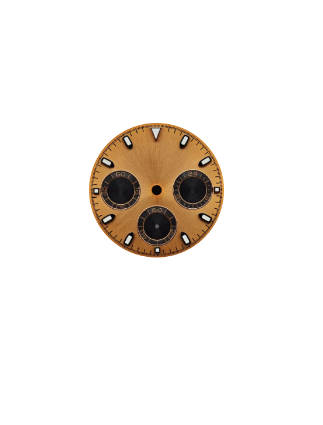
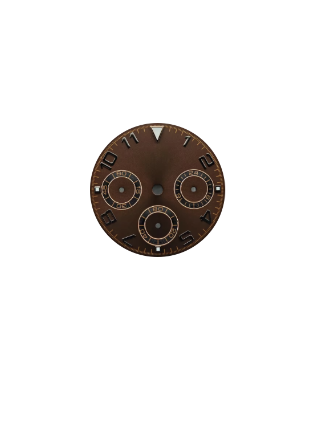
Daytona - page assembling day #1 - finished

Changed region(s): [[0.2786, 0.2753, 0.7121, 0.6118]]

diff --git a/consSportDaytona.html b/consSportDaytona.html
@@ -1,5 +1,8 @@
 <!DOCTYPE html>
 <html lang="en">
+<!--
+hands
+-->
 
 <head>
     <meta charset="UTF-8" />
@@ -7,7 +10,7 @@
     <title>Daytona</title>
     <link rel="stylesheet" href="styleHeaderFooter.css" />
     <link rel="stylesheet" href="styleConstructorSport.css" />
-    <link rel="stylesheet" href="styleConsSportSpeedmaster.css" />
+    <link rel="stylesheet" href="styleConsSportDaytona.css" />
     <script src="https://cdn.jsdelivr.net/npm/html2canvas@1.4.1/dist/html2canvas.min.js"></script>
 
 </head>
@@ -26,10 +29,10 @@
         <div class="constructor-container">
             <div class="watch-preview-box" id="watchPreviewBox">
                 <div class="watch-preview">
-                    <img id="caseLayer" class="layer" src="watchParts/7_Speedmaster/case/case_1.png" />
-                    <img id="bandLayer" class="layer" src="watchParts/7_Speedmaster/bezel/bezel_1.png" />
-                    <img id="dialLayer" class="layer" src="watchParts/7_Speedmaster/dial/dial_1.png" />
-                    <img id="handsLayer" class="layer" src="watchParts/7_Speedmaster/hands/hands_1.png" />
+                    <img id="caseLayer" class="layer" src="watchParts/8_Daytona/case/case_1.png" />
+                    <img id="bezelLayer" class="layer" src="watchParts/8_Daytona/bezel/bezel_1.png" />
+                    <img id="dialLayer" class="layer" src="watchParts/8_Daytona/dial/dial_1.png" />
+                    <img id="handsLayer" class="layer" src="watchParts/8_Daytona/hands/hands_1.png" />
                     <div class="corner-text left" id="engraveText"
                         data-i18n="pageConstructorsWatchView.watchMenu.noIngrave">Без гравировки</div>
                     <div class="corner-text left2" id="logoText" data-i18n="pageConstructorsWatchView.watchMenu.noLogo">
@@ -51,22 +54,22 @@
 
                     <div class="option-images" id="caseOptions" style="display: none;">
                         <button class="option" data-value="1">
-                            <img src="watchParts/7_Speedmaster/case/case_1.png" alt="Case 1" />
+                            <img src="watchParts/8_Daytona/case/case_1.png" alt="Case 1" />
                         </button>
                         <button class="option" data-value="2">
-                            <img src="watchParts/7_Speedmaster/case/case_2.png" alt="Case 2" />
+                            <img src="watchParts/8_Daytona/case/case_2.png" alt="Case 2" />
                         </button>
                         <button class="option" data-value="3">
-                            <img src="watchParts/7_Speedmaster/case/case_3.png" alt="Case 3" />
+                            <img src="watchParts/8_Daytona/case/case_3.png" alt="Case 3" />
                         </button>
                         <button class="option" data-value="4">
-                            <img src="watchParts/7_Speedmaster/case/case_4.png" alt="Case 4" />
+                            <img src="watchParts/8_Daytona/case/case_4.png" alt="Case 4" />
                         </button>
                         <button class="option" data-value="5">
-                            <img src="watchParts/7_Speedmaster/case/case_5.png" alt="Case 5" />
+                            <img src="watchParts/8_Daytona/case/case_5.png" alt="Case 5" />
                         </button>
                         <button class="option" data-value="6">
-                            <img src="watchParts/7_Speedmaster/case/case_6.png" alt="Case 6" />
+                            <img src="watchParts/8_Daytona/case/case_6.png" alt="Case 6" />
                         </button>
                     </div>
                 </div>
@@ -74,29 +77,29 @@
                 <hr class="option-divider">
 
                 <div class="option-group">
-                    <div class="option-header" id="bandToggle">
+                    <div class="option-header" id="bezelToggle">
                         <span data-i18n="pageConstructorsWatchView.watchMenu.bezel">Безель</span>
                         <span class="arrow-icon"></span>
                     </div>
 
-                    <div class="option-images" id="bandOptions" style="display: none;">
+                    <div class="option-images" id="bezelOptions" style="display: none;">
                         <button class="option" data-value="1">
-                            <img src="watchParts/7_Speedmaster/bezel/bezel_1.png" alt="Band 1" />
+                            <img src="watchParts/8_Daytona/bezel/bezel_1.png" alt="bezel 1" />
                         </button>
                         <button class="option" data-value="2">
-                            <img src="watchParts/7_Speedmaster/bezel/bezeld_2.png" alt="Band 2" />
+                            <img src="watchParts/8_Daytona/bezel/bezel_2.png" alt="Bezel 2" />
                         </button>
                         <button class="option" data-value="3">
-                            <img src="watchParts/7_Speedmaster/bezel/bezel_3.png" alt="Band 3" />
+                            <img src="watchParts/8_Daytona/bezel/bezel_3.png" alt="Bezel 3" />
                         </button>
                         <button class="option" data-value="4">
-                            <img src="watchParts/7_Speedmaster/bezel/bezel_4.png" alt="Band 4" />
+                            <img src="watchParts/8_Daytona/bezel/bezel_4.png" alt="Bezel 4" />
                         </button>
                         <button class="option" data-value="5">
-                            <img src="watchParts/7_Speedmaster/bezel/bezel_5.png" alt="Band 5" />
+                            <img src="watchParts/8_Daytona/bezel/bezel_5.png" alt="Bezel 5" />
                         </button>
                         <button class="option" data-value="6">
-                            <img src="watchParts/7_Speedmaster/bezel/bezel_6.png" alt="Band 6" />
+                            <img src="watchParts/8_Daytona/bezel/bezel_6.png" alt="Bezel 6" />
                         </button>
                     </div>
                 </div>
@@ -111,82 +114,88 @@
 
                     <div class="option-images" id="dialOptions" style="display: none;">
                         <button class="option" data-value="1">
-                            <img src="watchParts/7_Speedmaster/dial/dial_1.png" alt="Dial 1" />
+                            <img src="watchParts/8_Daytona/dial/dial_1.png" alt="Dial 1" />
                         </button>
                         <button class="option" data-value="2">
-                            <img src="watchParts/7_Speedmaster/dial/dial_2.png" alt="Dial 2" />
+                            <img src="watchParts/8_Daytona/dial/dial_2.png" alt="Dial 2" />
                         </button>
                         <button class="option" data-value="3">
-                            <img src="watchParts/7_Speedmaster/dial/dial_3.png" alt="Dial 3" />
+                            <img src="watchParts/8_Daytona/dial/dial_3.png" alt="Dial 3" />
                         </button>
                         <button class="option" data-value="4">
-                            <img src="watchParts/7_Speedmaster/dial/dial_4.png" alt="Dial 4" />
+                            <img src="watchParts/8_Daytona/dial/dial_4.png" alt="Dial 4" />
                         </button>
                         <button class="option" data-value="5">
-                            <img src="watchParts/7_Speedmaster/dial/dial_5.png" alt="Dial 5" />
+                            <img src="watchParts/8_Daytona/dial/dial_5.png" alt="Dial 5" />
                         </button>
                         <button class="option" data-value="6">
-                            <img src="watchParts/7_Speedmaster/dial/dial_6.png" alt="Dial 6" />
+                            <img src="watchParts/8_Daytona/dial/dial_6.png" alt="Dial 6" />
                         </button>
                         <button class="option" data-value="7">
-                            <img src="watchParts/7_Speedmaster/dial/dial_7.png" alt="Dial 7" />
+                            <img src="watchParts/8_Daytona/dial/dial_7.png" alt="Dial 7" />
                         </button>
                         <button class="option" data-value="8">
-                            <img src="watchParts/7_Speedmaster/dial/dial_8.png" alt="Dial 8" />
+                            <img src="watchParts/8_Daytona/dial/dial_8.png" alt="Dial 8" />
                         </button>
                         <button class="option" data-value="9">
-                            <img src="watchParts/7_Speedmaster/dial/dial_9.png" alt="Dial 9" />
+                            <img src="watchParts/8_Daytona/dial/dial_9.png" alt="Dial 9" />
                         </button>
                         <button class="option" data-value="10">
-                            <img src="watchParts/7_Speedmaster/dial/dial_10.png" alt="Dial 10" />
+                            <img src="watchParts/8_Daytona/dial/dial_10.png" alt="Dial 10" />
                         </button>
                         <button class="option" data-value="11">
-                            <img src="watchParts/7_Speedmaster/dial/dial_11.png" alt="Dial 11" />
+                            <img src="watchParts/8_Daytona/dial/dial_11.png" alt="Dial 11" />
                         </button>
                         <button class="option" data-value="12">
-                            <img src="watchParts/7_Speedmaster/dial/dial_12.png" alt="Dial 12" />
+                            <img src="watchParts/8_Daytona/dial/dial_12.png" alt="Dial 12" />
                         </button>
                         <button class="option" data-value="13">
-                            <img src="watchParts/7_Speedmaster/dial/dial_13.png" alt="Dial 13" />
+                            <img src="watchParts/8_Daytona/dial/dial_13.png" alt="Dial 13" />
                         </button>
                         <button class="option" data-value="14">
-                            <img src="watchParts/7_Speedmaster/dial/dial_14.png" alt="Dial 14" />
+                            <img src="watchParts/8_Daytona/dial/dial_14.png" alt="Dial 14" />
                         </button>
                         <button class="option" data-value="15">
-                            <img src="watchParts/7_Speedmaster/dial/dial_15.png" alt="Dial 15" />
+                            <img src="watchParts/8_Daytona/dial/dial_15.png" alt="Dial 15" />
                         </button>
                         <button class="option" data-value="16">
-                            <img src="watchParts/7_Speedmaster/dial/dial_16.png" alt="Dial 16" />
+                            <img src="watchParts/8_Daytona/dial/dial_16.png" alt="Dial 16" />
                         </button>
                         <button class="option" data-value="17">
-                            <img src="watchParts/7_Speedmaster/dial/dial_17.png" alt="Dial 17" />
+                            <img src="watchParts/8_Daytona/dial/dial_17.png" alt="Dial 17" />
                         </button>
                         <button class="option" data-value="18">
-                            <img src="watchParts/7_Speedmaster/dial/dial_18.png" alt="Dial 18" />
+                            <img src="watchParts/8_Daytona/dial/dial_18.png" alt="Dial 18" />
                         </button>
                         <button class="option" data-value="9">
-                            <img src="watchParts/7_Speedmaster/dial/dial_19.png" alt="Dial 19" />
+                            <img src="watchParts/8_Daytona/dial/dial_19.png" alt="Dial 19" />
                         </button>
                         <button class="option" data-value="20">
-                            <img src="watchParts/7_Speedmaster/dial/dial_20.png" alt="Dial 20" />
+                            <img src="watchParts/8_Daytona/dial/dial_20.png" alt="Dial 20" />
                         </button>
                         <button class="option" data-value="21">
-                            <img src="watchParts/7_Speedmaster/dial/dial_21.png" alt="Dial 21" />
+                            <img src="watchParts/8_Daytona/dial/dial_21.png" alt="Dial 21" />
                         </button>
                         <button class="option" data-value="22">
-                            <img src="watchParts/7_Speedmaster/dial/dial_22.png" alt="Dial 22" />
+                            <img src="watchParts/8_Daytona/dial/dial_22.png" alt="Dial 22" />
                         </button>
                         <button class="option" data-value="23">
-                            <img src="watchParts/7_Speedmaster/dial/dial_23.png" alt="Dial 23" />
+                            <img src="watchParts/8_Daytona/dial/dial_23.png" alt="Dial 23" />
                         </button>
                         <button class="option" data-value="24">
-                            <img src="watchParts/7_Speedmaster/dial/dial_24.png" alt="Dial 24" />
+                            <img src="watchParts/8_Daytona/dial/dial_24.png" alt="Dial 24" />
                         </button>
                         <button class="option" data-value="25">
-                            <img src="watchParts/7_Speedmaster/dial/dial_25.png" alt="Dial 25" />
+                            <img src="watchParts/8_Daytona/dial/dial_25.png" alt="Dial 25" />
                         </button>
                         <button class="option" data-value="26">
-                            <img src="watchParts/7_Speedmaster/dial/dial_26.png" alt="Dial 26" />
+                            <img src="watchParts/8_Daytona/dial/dial_26.png" alt="Dial 26" />
+                        </button>
+                        <button class="option" data-value="27">
+                            <img src="watchParts/8_Daytona/dial/dial_27.png" alt="Dial 27" />
+                        </button>
+                        <button class="option" data-value="28">
+                            <img src="watchParts/8_Daytona/dial/dial_28.png" alt="Dial 28" />
                         </button>
                     </div>
                 </div>
@@ -201,19 +210,19 @@
 
                     <div class="option-images" id="handsOptions" style="display: none;">
                         <button class="option" data-value="1">
-                            <img src="watchParts/7_Speedmaster/hands/hands_1.png" alt="Hands 1" />
+                            <img src="watchParts/8_Daytona/hands/hands_1.png" alt="Hands 1" />
                         </button>
                         <button class="option" data-value="2">
-                            <img src="watchParts/7_Speedmaster/hands/hands_2.png" alt="Hands 2" />
+                            <img src="watchParts/8_Daytona/hands/hands_2.png" alt="Hands 2" />
                         </button>
                         <button class="option" data-value="3">
-                            <img src="watchParts/7_Speedmaster/hands/handsl_3.png" alt="Hands 3" />
+                            <img src="watchParts/8_Daytona/hands/hands_3.png" alt="Hands 3" />
                         </button>
                         <button class="option" data-value="4">
-                            <img src="watchParts/7_Speedmaster/hands/hands_4.png" alt="Hands 4" />
+                            <img src="watchParts/8_Daytona/hands/hands_4.png" alt="Hands 4" />
                         </button>
                         <button class="option" data-value="5">
-                            <img src="watchParts/7_Speedmaster/hands/handsl_5.png" alt="Hands 5" />
+                            <img src="watchParts/8_Daytona/hands/hands_5.png" alt="Hands 5" />
                         </button>
 
                     </div>
@@ -298,7 +307,7 @@
     <div id="footer"></div>
 
     <script src="header-footer-loader.js"></script>
-    <script src="scriptConsSportSpeedmaster.js"></script>
+    <script src="scriptConsSportDaytona.js"></script>
     <script src="localization.js"></script>
 </body>
 

diff --git a/scriptConsSportDaytona.js b/scriptConsSportDaytona.js
@@ -21,21 +21,24 @@ document.addEventListener("DOMContentLoaded", function () {
 
     const dialLayer = document.getElementById("dialLayer");
     const caseLayer = document.getElementById("caseLayer");
-    const bandLayer = document.getElementById("bandLayer");
+    const bezelLayer = document.getElementById("bezelLayer");
+    const handsLayer = document.getElementById("handsLayer");
 
     function updateLayer(layer, path, name, ext = "png") {
-        layer.src = `watchParts/7_Speedmaster/${path}/${name}.${ext}`;
+        layer.src = `watchParts/8_Daytona/${path}/${name}.${ext}`;
     }
 
     function saveToLocal() {
         const dialButton = document.querySelector("#dialOptions button.selected");
         const caseButton = document.querySelector("#caseOptions button.selected");
-        const bandButton = document.querySelector("#bandOptions button.selected");
+        const bezelButton = document.querySelector("#bezelOptions button.selected");
+        const handsButton = document.querySelector("#handsOptions button.selected");
 
         const config = {
             dial: dialButton?.dataset.value || "1",
             case: caseButton?.dataset.value || "1",
-            band: bandButton?.dataset.value || "1",
+            bezel: bezelButton?.dataset.value || "1",
+            hands: handsButton?.dataset.value || "1"
         };
 
         localStorage.setItem(storageKey, JSON.stringify(config));
@@ -51,16 +54,21 @@ document.addEventListener("DOMContentLoaded", function () {
         const caseValue = caseBtn ? caseBtn.dataset.value : "1";
         updateLayer(caseLayer, "case", `case_${caseValue}`);
 
-        const bandBtn = document.querySelector("#bandOptions button.selected");
-        const bandValue = bandBtn ? bandBtn.dataset.value : "1";
-        updateLayer(bandLayer, "band", `band_${bandValue}`);
+        const bezeldBtn = document.querySelector("#bezelOptions button.selected");
+        const bezelValue = bezelBtn ? bezelBtn.dataset.value : "1";
+        updateLayer(bezelLayer, "bezel", `bezel_${bezelValue}`);
+
+        const handsBtn = document.querySelector("#handsOptions button.selected");
+        const handsValue = handsBtn ? handsBtn.dataset.value : "1";
+        updateLayer(handsLayer, "hands", `hands_${handsValue}`);
     }
 
     function loadFromLocalOrURL() {
         const config = JSON.parse(localStorage.getItem(storageKey)) || {
             dial: "1",
             case: "1",
-            band: "1"
+            bezel: "1",
+            hands: "1"
         };
 
 
@@ -70,8 +78,12 @@ document.addEventListener("DOMContentLoaded", function () {
         const caseButtons = document.querySelectorAll("#caseOptions button");
         caseButtons.forEach(b => b.classList.toggle("selected", b.dataset.value === config.case));
 
-        const bandButtons = document.querySelectorAll("#bandOptions button");
-        bandButtons.forEach(b => b.classList.toggle("selected", b.dataset.value === config.band));
+        const bezelButtons = document.querySelectorAll("#bezelOptions button");
+        bezelButtons.forEach(b => b.classList.toggle("selected", b.dataset.value === config.bezel));
+
+        const handsButtons = document.querySelectorAll("#handsOptions button");
+        handsButtons.forEach(b => b.classList.toggle("selected", b.dataset.value === config.hands));
+
 
         applySelections();
     }
@@ -79,7 +91,8 @@ document.addEventListener("DOMContentLoaded", function () {
     const toggles = [
         { toggleId: "dialToggle", menuId: "dialOptions" },
         { toggleId: "caseToggle", menuId: "caseOptions" },
-        { toggleId: "bandToggle", menuId: "bandOptions" }
+        { toggleId: "bezelToggle", menuId: "bezelOptions" },
+        { toggleId: "handsToggle", menuId: "handsOptions" }
     ];
 
 
@@ -121,11 +134,20 @@ document.addEventListener("DOMContentLoaded", function () {
         });
     });
 
-    document.querySelectorAll("#bandOptions button").forEach(btn => {
+    document.querySelectorAll("#bezelOptions button").forEach(btn => {
         btn.addEventListener("click", () => {
-            document.querySelectorAll("#bandOptions button").forEach(b => b.classList.remove("selected"));
+            document.querySelectorAll("#bezelOptions button").forEach(b => b.classList.remove("selected"));
             btn.classList.add("selected");
-            updateLayer(bandLayer, "band", `band_${btn.dataset.value}`);
+            updateLayer(bezelLayer, "bezel", `bezel_${btn.dataset.value}`);
+            saveToLocal();
+        });
+    });
+
+    document.querySelectorAll("#handsOptions button").forEach(btn => {
+        btn.addEventListener("click", () => {
+            document.querySelectorAll("#handsOptions button").forEach(b => b.classList.remove("selected"));
+            btn.classList.add("selected");
+            updateLayer(handsLayer, "hands", `hands_${btn.dataset.value}`);
             saveToLocal();
         });
     });
